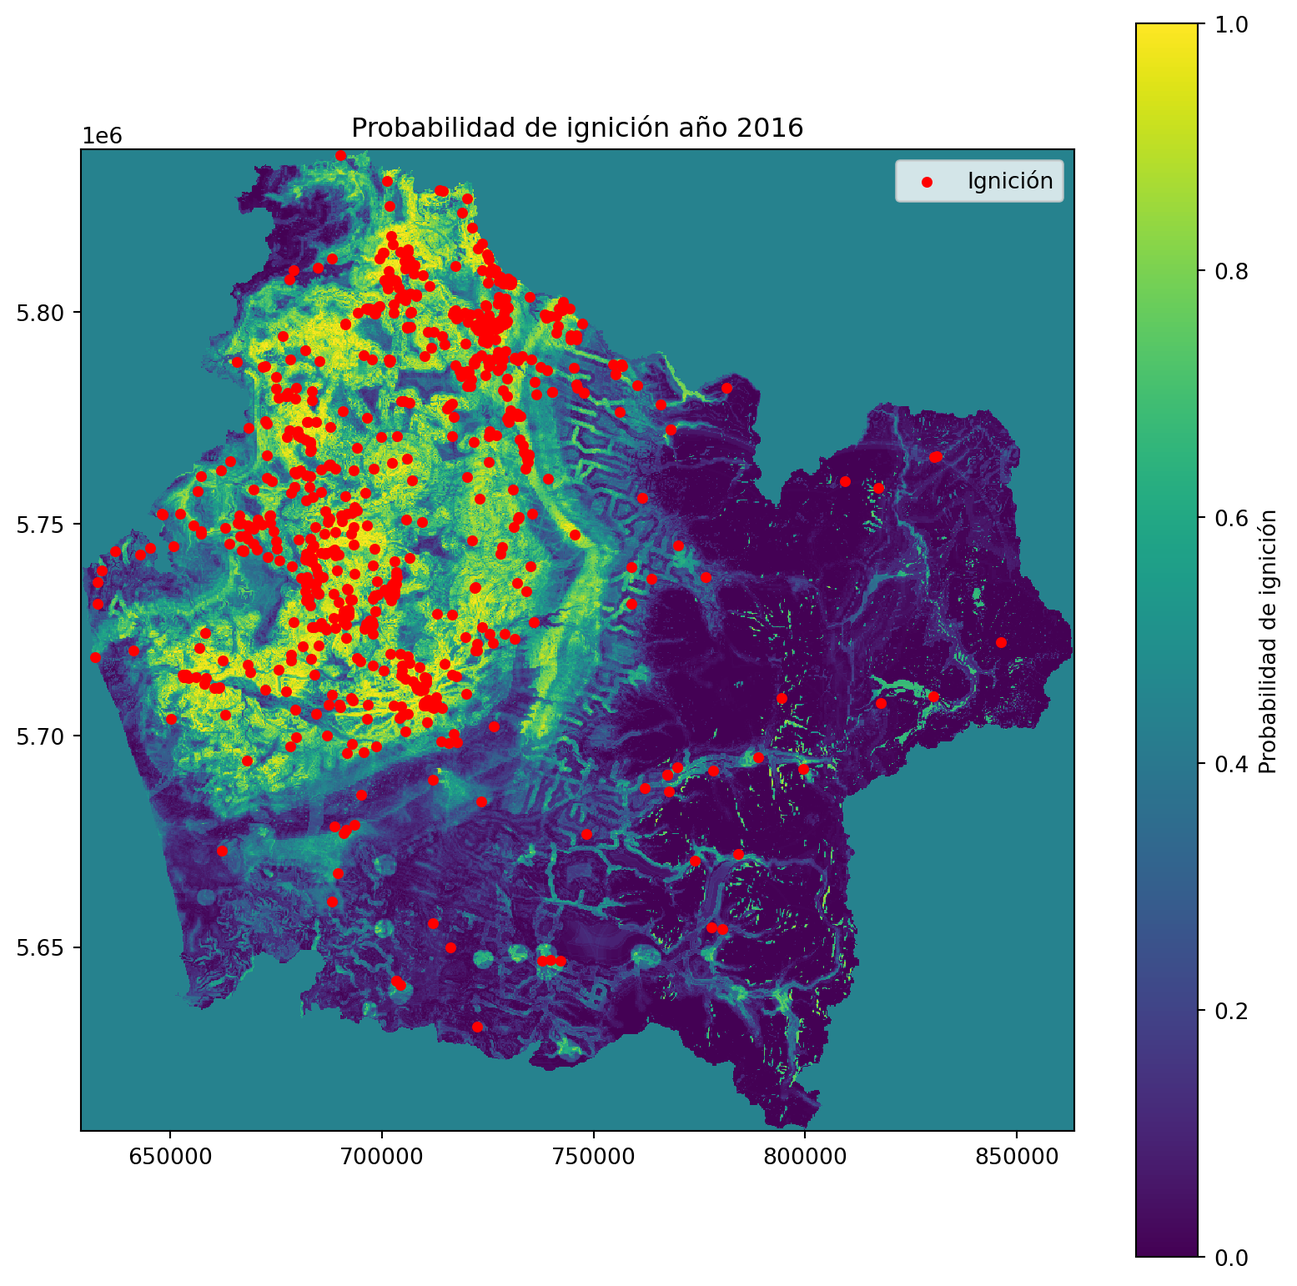
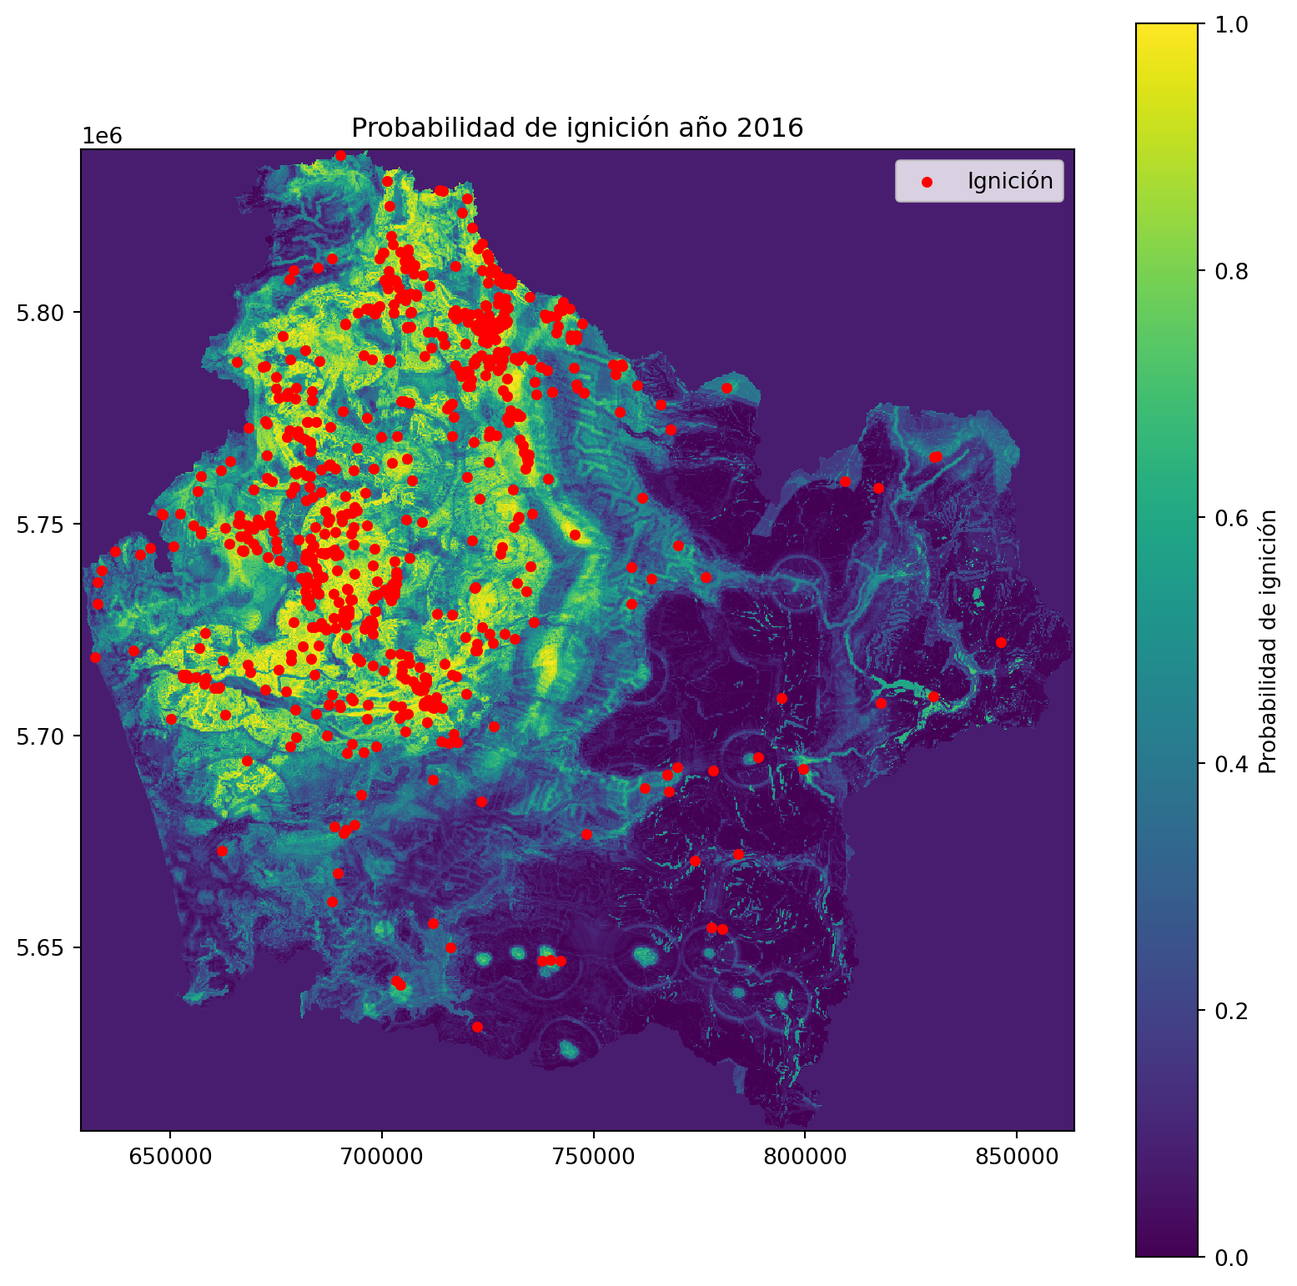
Built site for gh-pages

diff --git a/05-modelado.html b/05-modelado.html
@@ -247,7 +247,7 @@ pre > code.sourceCode > span > a:first-child::before { text-decoration: underlin
 <section id="preparación-de-datos" class="level2" data-number="5.1">
 <h2 data-number="5.1" class="anchored" data-anchor-id="preparación-de-datos"><span class="header-section-number">5.1</span> Preparación de datos</h2>
 <p>Antes de comenzar, tendremos que cargar algunas librerías extras:</p>
-<div id="8f9fbd72" class="cell" data-execution_count="1">
+<div id="0031b6da" class="cell" data-execution_count="1">
 <div class="sourceCode cell-code" id="annotated-cell-1"><pre class="sourceCode numberSource python code-annotation-code number-lines code-with-copy code-annotated"><code class="sourceCode python"><span id="annotated-cell-1-1"><a href="#annotated-cell-1-1"></a><span class="im">import</span> os</span>
 <span id="annotated-cell-1-2"><a href="#annotated-cell-1-2"></a><span class="im">import</span> pandas <span class="im">as</span> pd</span>
 <span id="annotated-cell-1-3"><a href="#annotated-cell-1-3"></a><span class="im">import</span> geopandas <span class="im">as</span> gpd</span>
@@ -282,7 +282,7 @@ pre > code.sourceCode > span > a:first-child::before { text-decoration: underlin
 </div>
 <p>Una vez cargada las librerías, llamaremos a los datos. Estos se componen de puntos para ignición/no-ignición. Ambos servirán para el entrenamiento del modelo. Además del raster multibanda que alberga a las variables predictoras.</p>
 <p>Lo primero es verificar que nuestros datos se encuentren en el mismo CRS:</p>
-<div id="6acc92f0" class="cell" data-execution_count="3">
+<div id="e30ee5e9" class="cell" data-execution_count="3">
 <div class="sourceCode cell-code" id="cb1"><pre class="sourceCode numberSource python number-lines code-with-copy"><code class="sourceCode python"><span id="cb1-1"><a href="#cb1-1"></a>coord_1 <span class="op">=</span> gpd.read_file(<span class="st">"puntos/si_ignicion_2016.shp"</span>) <span class="co"># Muestras igncion</span></span>
 <span id="cb1-2"><a href="#cb1-2"></a>coord_0 <span class="op">=</span> gpd.read_file(<span class="st">"puntos/no_ignicion_2016.shp"</span>) <span class="co"># Muestras no ignicion</span></span>
 <span id="cb1-3"><a href="#cb1-3"></a></span>
@@ -298,7 +298,7 @@ pre > code.sourceCode > span > a:first-child::before { text-decoration: underlin
 La cantidad de bandas (datos) es 5</code></pre>
 </div>
 </div>
-<div id="20d86889" class="cell" data-execution_count="4">
+<div id="5cd8bbc9" class="cell" data-execution_count="4">
 <div class="sourceCode cell-code" id="cb3"><pre class="sourceCode numberSource python number-lines code-with-copy"><code class="sourceCode python"><span id="cb3-1"><a href="#cb3-1"></a><span class="cf">if</span> coord_1.crs <span class="op">==</span> coord_0.crs <span class="op">==</span> crsRaster:</span>
 <span id="cb3-2"><a href="#cb3-2"></a>    <span class="bu">print</span>(<span class="st">"Todas las capas se encuentran en el mismo CRS"</span>)</span>
 <span id="cb3-3"><a href="#cb3-3"></a><span class="cf">else</span>:</span>
@@ -310,7 +310,7 @@ La cantidad de bandas (datos) es 5</code></pre>
 </div>
 </div>
 <p>A través de una función que vamos a construir, obtendremos los datos de las variables en el raster usando las coordenadas de los puntos. Posteriormente, ambas listas se convierten a <em>DataFrame</em> y se les asigna una etiqueta. Por último, se unen ambos <em>DataFrames</em>:</p>
-<div id="324d462c" class="cell" data-execution_count="5">
+<div id="473eb4f6" class="cell" data-execution_count="5">
 <div class="sourceCode cell-code" id="cb5"><pre class="sourceCode numberSource python number-lines code-with-copy"><code class="sourceCode python"><span id="cb5-1"><a href="#cb5-1"></a><span class="kw">def</span> ext_muestras(gdf_data, raster):</span>
 <span id="cb5-2"><a href="#cb5-2"></a>    <span class="co"># Crear lista de coordenadas</span></span>
 <span id="cb5-3"><a href="#cb5-3"></a>    coordenadas <span class="op">=</span> []</span>
@@ -411,7 +411,7 @@ La cantidad de bandas (datos) es 5</code></pre>
 </div>
 </div>
 <p>Para ingresar los datos correctamente al algoritmo de <em>Random Forest</em>, debemos separar los datos en dos arrays. Uno conteniendo únicamente los valores de los datos y otro conteniendo las etiquetas para cada observación.</p>
-<div id="aba866d1" class="cell" data-execution_count="6">
+<div id="b64c8896" class="cell" data-execution_count="6">
 <div class="sourceCode cell-code" id="cb6"><pre class="sourceCode numberSource python number-lines code-with-copy"><code class="sourceCode python"><span id="cb6-1"><a href="#cb6-1"></a>X <span class="op">=</span> df.drop(<span class="st">'etiqueta'</span>, axis<span class="op">=</span><span class="dv">1</span>).to_numpy()</span>
 <span id="cb6-2"><a href="#cb6-2"></a>y <span class="op">=</span> df[<span class="st">'etiqueta'</span>].to_numpy()</span>
 <span id="cb6-3"><a href="#cb6-3"></a></span>
@@ -436,7 +436,7 @@ Array con etiquetas
 </section>
 <section id="entrenamiento" class="level2" data-number="5.2">
 <h2 data-number="5.2" class="anchored" data-anchor-id="entrenamiento"><span class="header-section-number">5.2</span> Entrenamiento</h2>
-<div id="f22e02a8" class="cell" data-execution_count="7">
+<div id="0a9f3c7d" class="cell" data-execution_count="7">
 <div class="sourceCode cell-code" id="annotated-cell-6"><pre class="sourceCode numberSource python code-annotation-code number-lines code-with-copy code-annotated"><code class="sourceCode python"><span id="annotated-cell-6-1"><a href="#annotated-cell-6-1"></a><span class="co"># Particion de datos</span></span>
 <a class="code-annotation-anchor" data-target-cell="annotated-cell-6" data-target-annotation="1" onclick="event.preventDefault();">1</a><span id="annotated-cell-6-2" class="code-annotation-target"><a href="#annotated-cell-6-2"></a>trainX, testX, trainy, testy <span class="op">=</span> train_test_split(X,</span>
 <span id="annotated-cell-6-3"><a href="#annotated-cell-6-3"></a>                                                y,</span>
@@ -464,7 +464,7 @@ Array con etiquetas
 <section id="predicción-y-validación" class="level2" data-number="5.3">
 <h2 data-number="5.3" class="anchored" data-anchor-id="predicción-y-validación"><span class="header-section-number">5.3</span> Predicción y validación</h2>
 <p>Para predecir deberemos ocupar la función <code>.predict</code>:</p>
-<div id="98b40803" class="cell" data-execution_count="8">
+<div id="308a779b" class="cell" data-execution_count="8">
 <div class="sourceCode cell-code" id="cb8"><pre class="sourceCode numberSource python number-lines code-with-copy"><code class="sourceCode python"><span id="cb8-1"><a href="#cb8-1"></a><span class="co"># Realizar predicciones con los datos de X</span></span>
 <span id="cb8-2"><a href="#cb8-2"></a>predicciones <span class="op">=</span> modelo_RF.predict(X <span class="op">=</span> testX)</span>
 <span id="cb8-3"><a href="#cb8-3"></a></span>
@@ -473,13 +473,13 @@ Array con etiquetas
 <span id="cb8-6"><a href="#cb8-6"></a></span>
 <span id="cb8-7"><a href="#cb8-7"></a><span class="bu">print</span>(<span class="ss">f"AUC: </span><span class="sc">{</span>metrica<span class="sc">}</span><span class="ss">"</span>)</span></code><button title="Copiar al portapapeles" class="code-copy-button"><i class="bi"></i></button></pre></div>
 <div class="cell-output cell-output-stdout">
-<pre><code>AUC: 0.8381244798344467</code></pre>
+<pre><code>AUC: 0.8730780486706738</code></pre>
 </div>
 </div>
 </section>
 <section id="prediciendo-con-el-modelo" class="level2 page-columns page-full" data-number="5.4">
 <h2 data-number="5.4" class="anchored" data-anchor-id="prediciendo-con-el-modelo"><span class="header-section-number">5.4</span> Prediciendo con el modelo</h2>
-<div id="8ff5f3e3" class="cell" data-execution_count="9">
+<div id="8159bf71" class="cell" data-execution_count="9">
 <div class="sourceCode cell-code" id="annotated-cell-8"><pre class="sourceCode numberSource python code-annotation-code number-lines code-with-copy code-annotated"><code class="sourceCode python"><a class="code-annotation-anchor" data-target-cell="annotated-cell-8" data-target-annotation="1" onclick="event.preventDefault();">1</a><span id="annotated-cell-8-1" class="code-annotation-target"><a href="#annotated-cell-8-1"></a>data <span class="op">=</span> rxr.open_rasterio(<span class="st">'datos/datos_2016.tif'</span>)</span>
 <span id="annotated-cell-8-2"><a href="#annotated-cell-8-2"></a></span>
 <a class="code-annotation-anchor" data-target-cell="annotated-cell-8" data-target-annotation="2" onclick="event.preventDefault();">2</a><span id="annotated-cell-8-3" class="code-annotation-target"><a href="#annotated-cell-8-3"></a>pixeles <span class="op">=</span> data.values.transpose(<span class="dv">1</span>,<span class="dv">2</span>,<span class="dv">0</span>)</span>
@@ -524,7 +524,7 @@ Array con etiquetas
 </div>
 <p>Para observar el resultado del modelo podemos usar <em>Matplotlib</em>.</p>
 <div class="page-columns page-full">
-<div id="23c633ad" class="cell page-columns page-full" data-execution_count="10">
+<div id="38554424" class="cell page-columns page-full" data-execution_count="10">
 <div class="sourceCode cell-code" id="cb10"><pre class="sourceCode numberSource python number-lines code-with-copy"><code class="sourceCode python"><span id="cb10-1"><a href="#cb10-1"></a>fig, ax <span class="op">=</span> plt.subplots(figsize<span class="op">=</span>(<span class="dv">10</span>, <span class="dv">10</span>))</span>
 <span id="cb10-2"><a href="#cb10-2"></a></span>
 <span id="cb10-3"><a href="#cb10-3"></a>resultado.plot(</span>

diff --git a/03-imagenes.html b/03-imagenes.html
@@ -464,7 +464,7 @@ Listado&nbsp;3.1
 <h2 data-number="3.2" class="anchored" data-anchor-id="discretización-de-datos-raster"><span class="header-section-number">3.2</span> Discretización de datos Raster</h2>
 <p>Los índices entregan valores continuos en un rango determinado, no obstante, para obtener las categorías de interés, es necesario encontrar ciertos valores o umbrales que permitan esa separación. Generalmente esos umbrales vienen dados o se pueden establecer desde calibraciones en campo o con gráficos de distribución de los valores.</p>
 <p>En este caso, se mostrará una segmentación simple del NDVI anteriormente calculado. En este, valores mayores a <code>0.5</code> serán una categoría, mientras que valores menores o iguales <code>0.5</code> será otra categoría.</p>
-<div id="be6675f6" class="cell" data-execution_count="3">
+<div id="5f1ea5a7" class="cell" data-execution_count="3">
 <div class="sourceCode cell-code" id="cb2"><pre class="sourceCode numberSource python number-lines code-with-copy"><code class="sourceCode python"><span id="cb2-1"><a href="#cb2-1"></a><span class="co"># Creamos una copia de la variable original</span></span>
 <span id="cb2-2"><a href="#cb2-2"></a>ndvi_clases <span class="op">=</span> NDVI.copy()</span>
 <span id="cb2-3"><a href="#cb2-3"></a></span>
@@ -507,7 +507,7 @@ Nota
 </div>
 </div>
 <p>Una vez hecho teniendo el objeto de tipo <code>generator</code>, se transformará a un <em>GeoDataFrame</em> el cual servirá para su visualización:</p>
-<div id="246a53b8" class="cell" data-execution_count="4">
+<div id="e218dd9a" class="cell" data-execution_count="4">
 <div class="sourceCode cell-code" id="cb3"><pre class="sourceCode numberSource python number-lines code-with-copy"><code class="sourceCode python"><span id="cb3-1"><a href="#cb3-1"></a><span class="co">#Importancion de librerias</span></span>
 <span id="cb3-2"><a href="#cb3-2"></a><span class="im">import</span> shapely <span class="co"># Nos permite transformar geometrías.</span></span>
 <span id="cb3-3"><a href="#cb3-3"></a><span class="im">import</span> rasterio.features <span class="im">as</span> features <span class="co"># Contiene una función para vectorizar.</span></span>
@@ -551,7 +551,7 @@ Nota
 <h2 data-number="3.4" class="anchored" data-anchor-id="exportación-de-archivos"><span class="header-section-number">3.4</span> Exportación de archivos</h2>
 <p>Una vez creados los archivos de interés (ya sea raster o vectorial), podemos exportarlos de la siguiente manera:</p>
 <p>Para datos raster:</p>
-<div id="916fdc1c" class="cell" data-execution_count="5">
+<div id="18c86281" class="cell" data-execution_count="5">
 <div class="sourceCode cell-code" id="cb4"><pre class="sourceCode numberSource python number-lines code-with-copy"><code class="sourceCode python"><span id="cb4-1"><a href="#cb4-1"></a><span class="co"># Para raster con el NDVI calculado =========</span></span>
 <span id="cb4-2"><a href="#cb4-2"></a></span>
 <span id="cb4-3"><a href="#cb4-3"></a><span class="cf">with</span> rio.<span class="bu">open</span>(<span class="st">"ndviValdivia.tif"</span>, <span class="co"># Crea el archivo</span></span>
@@ -578,14 +578,14 @@ Nota
 <span id="cb4-24"><a href="#cb4-24"></a>    dst.write(ndvi_clases, <span class="dv">1</span>)</span></code><button title="Copiar al portapapeles" class="code-copy-button"><i class="bi"></i></button></pre></div>
 </div>
 <p>Para datos vectoriales:</p>
-<div id="64b900e0" class="cell" data-execution_count="6">
+<div id="04e47bf1" class="cell" data-execution_count="6">
 <div class="sourceCode cell-code" id="cb5"><pre class="sourceCode numberSource python number-lines code-with-copy"><code class="sourceCode python"><span id="cb5-1"><a href="#cb5-1"></a>lista_geo.to_file(<span class="st">"ndvi_vectrorial.shp"</span>)</span></code><button title="Copiar al portapapeles" class="code-copy-button"><i class="bi"></i></button></pre></div>
 </div>
 </section>
 <section id="ejercicios" class="level2 unnumbered">
 <h2 class="unnumbered anchored" data-anchor-id="ejercicios">Ejercicios</h2>
 <ol type="1">
-<li><p>Descargue el siguiente <a href="https://figshare.com/ndownloader/files/50335344">set de datos</a>. Ests son dos imágenes <em>Sentinel</em> de Viña del Mar antes y después de los incendios ocurridos en Febrero de este año. Las bandas entregadas son: B1, B2, B3, B4, B5, B6, B7, B8, B8a, B9, B11, B12.</p></li>
+<li><p>Descargue el siguiente <a href="https://figshare.com/ndownloader/files/50344533">set de datos</a>. Ests son dos imágenes de Santa Cruz antes y después de los incendios ocurridos en el año 2017. Las bandas entregadas son: B1, B2, B3, B4, B5, B6, B7, B8A, B11, B12.</p></li>
 <li><p>A través de <em>Rasterio</em> y <em>NumPy</em> calcule <em>NDVI</em> y <em>BAI</em> para la imagen post-incendio.</p></li>
 <li><p>Calcule el <em>NBR</em> y los derivados de este índice para ambas imágenes.</p></li>
 <li><p>A través de la <a href="#tbl-dnbr-severity" class="quarto-xref">Tabla&nbsp;<span>3.1</span></a>, discretice el raster de <em>dNBR</em> y exportelo como un archivo <code>.tif</code>.</p></li>

diff --git a/04-analisisTemporal.html b/04-analisisTemporal.html
@@ -245,7 +245,7 @@ pre > code.sourceCode > span > a:first-child::before { text-decoration: underlin
 <section id="dentro-de-python" class="level2 page-columns page-full" data-number="4.2">
 <h2 data-number="4.2" class="anchored" data-anchor-id="dentro-de-python"><span class="header-section-number">4.2</span> Dentro de <em>Python</em></h2>
 <div class="page-columns page-full">
-<div id="338bf27b" class="cell page-columns page-full" data-execution_count="2">
+<div id="24bde2c4" class="cell page-columns page-full" data-execution_count="2">
 <details class="code-fold">
 <summary>Código</summary>
 <div class="sourceCode cell-code" id="cb1"><pre class="sourceCode numberSource python number-lines code-with-copy"><code class="sourceCode python"><span id="cb1-1"><a href="#cb1-1"></a><span class="co"># Importacion de librerias</span></span>
@@ -294,7 +294,7 @@ pre > code.sourceCode > span > a:first-child::before { text-decoration: underlin
 </div>
 </div>
 <p>Note que los sitios de interés son elementos vectoriales de tipo punto, por lo que, con ellos no es posible obtener los estadígrafos (ya que solo contienen un valor). Para arreglar esto, crearemos un área buffer de 250 metros.</p>
-<div id="78887766" class="cell" data-execution_count="3">
+<div id="12d97db6" class="cell" data-execution_count="3">
 <div class="sourceCode cell-code" id="cb2"><pre class="sourceCode numberSource python number-lines code-with-copy"><code class="sourceCode python"><span id="cb2-1"><a href="#cb2-1"></a><span class="co"># Copiamos los puntos para crear las areas buffer</span></span>
 <span id="cb2-2"><a href="#cb2-2"></a>puntosBuffer <span class="op">=</span> puntosAOI.copy()</span>
 <span id="cb2-3"><a href="#cb2-3"></a></span>
@@ -319,7 +319,7 @@ Nota
 </div>
 <p>Así se ven las zonas buffer creadas a partir de los puntos</p>
 <div class="page-columns page-full">
-<div id="8133b9b6" class="cell page-columns page-full" data-execution_count="4">
+<div id="a528d00f" class="cell page-columns page-full" data-execution_count="4">
 <details class="code-fold">
 <summary>Código</summary>
 <div class="sourceCode cell-code" id="cb3"><pre class="sourceCode numberSource python number-lines code-with-copy"><code class="sourceCode python"><span id="cb3-1"><a href="#cb3-1"></a>f, ax <span class="op">=</span> plt.subplots(figsize <span class="op">=</span> (<span class="dv">10</span>, <span class="dv">8</span>))</span>
@@ -347,7 +347,7 @@ Nota
 </div>
 </div>
 <p>Una vez creado el buffer, se extraen los valores desde el raster y se calcula los estadísticos de interes.</p>
-<div id="a121205d" class="cell" data-execution_count="5">
+<div id="8697ef8a" class="cell" data-execution_count="5">
 <div class="sourceCode cell-code" id="cb4"><pre class="sourceCode numberSource python number-lines code-with-copy"><code class="sourceCode python"><span id="cb4-1"><a href="#cb4-1"></a><span class="co"># Lista vacia</span></span>
 <span id="cb4-2"><a href="#cb4-2"></a>estadisticas <span class="op">=</span> []</span>
 <span id="cb4-3"><a href="#cb4-3"></a></span>
@@ -490,7 +490,7 @@ Nota
 </div>
 <p>Finalmente podemos visualizar nuestro resultado.</p>
 <div class="page-columns page-full">
-<div id="9bf52077" class="cell page-columns page-full" data-execution_count="6">
+<div id="74174ec3" class="cell page-columns page-full" data-execution_count="6">
 <details class="code-fold">
 <summary>Código</summary>
 <div class="sourceCode cell-code" id="cb5"><pre class="sourceCode numberSource python number-lines code-with-copy"><code class="sourceCode python"><span id="cb5-1"><a href="#cb5-1"></a>fig, ax <span class="op">=</span> plt.subplots(figsize<span class="op">=</span>(<span class="dv">10</span>, <span class="dv">8</span>))</span>
@@ -527,7 +527,7 @@ Nota
 </div>
 </div>
 </div>
-<div id="c8bad025" class="cell" data-execution_count="7">
+<div id="3c445a57" class="cell" data-execution_count="7">
 <details class="code-fold">
 <summary>Código</summary>
 <div class="sourceCode cell-code" id="cb6"><pre class="sourceCode numberSource python number-lines code-with-copy"><code class="sourceCode python"><span id="cb6-1"><a href="#cb6-1"></a>fig, ax <span class="op">=</span> plt.subplots()</span>

diff --git a/02-geomatica.html b/02-geomatica.html
@@ -275,7 +275,7 @@ Figura&nbsp;2.1: Composición <em>RGB</em>
 <section id="monobanda" class="level3 unnumbered">
 <h3 class="unnumbered anchored" data-anchor-id="monobanda">Monobanda</h3>
 <p>Son aquellas que solo almacenan una variable o <em>layer</em>. Es común encontrar este tipo de imágenes para almacenar y representar datos de tipo continuo, como la temperatura superficial o la reflectancia. No obstante, se usan también para representar variables de tipo discretas como las categorías de un sistema de clasificación.</p>
-<div id="fcfb18e7" class="cell" data-execution_count="1">
+<div id="f34d4bc2" class="cell" data-execution_count="1">
 <div class="cell-output cell-output-display">
 <div class="quarto-figure quarto-figure-center">
 <figure class="figure">
@@ -298,7 +298,7 @@ Figura&nbsp;2.1: Composición <em>RGB</em>
 <div>
 
 </div>
-<div id="19e8b662" class="cell quarto-layout-panel" data-layout-nrow="2" data-execution_count="2">
+<div id="3b72dd9d" class="cell quarto-layout-panel" data-layout-nrow="2" data-execution_count="2">
 <div class="quarto-layout-row">
 <div class="quarto-layout-cell" style="flex-basis: 100.0%;justify-content: flex-start;">
 <div class="quarto-figure quarto-figure-center">
@@ -372,7 +372,7 @@ Figura&nbsp;2.4: Bandas de <em>Sentinel</em>.
 <h2 data-number="2.7" class="anchored" data-anchor-id="dentro-de-python"><span class="header-section-number">2.7</span> Dentro de <em>Python</em></h2>
 <p>En <em>Python</em> las librerías principales para poder trabajar con datos raster son <code>rasterio</code> y <code>earthpy</code>. <code>rasterio</code> es una librería de <em>Python</em> diseñada para leer y escribir datos raster geoespaciales, mientras que <code>earthpy</code> facilita el manejo de multiples tipos de datos, lidiando con su descarga, descompresión y visualización.</p>
 <p>Por ejemplo, se cargará e imprimirá la información de un raster de elevación (<em>DEM</em>)</p>
-<div id="3211fa21" class="cell" data-execution_count="4">
+<div id="ba0c88eb" class="cell" data-execution_count="4">
 <div class="sourceCode cell-code" id="cb1"><pre class="sourceCode numberSource python number-lines code-with-copy"><code class="sourceCode python"><span id="cb1-1"><a href="#cb1-1"></a><span class="co"># Importando los paquetes necesarios</span></span>
 <span id="cb1-2"><a href="#cb1-2"></a><span class="im">import</span> os</span>
 <span id="cb1-3"><a href="#cb1-3"></a><span class="im">import</span> rasterio <span class="im">as</span> rio</span>
@@ -392,7 +392,7 @@ La imagen tiene EPSG:32613.</code></pre>
 </div>
 </div>
 <p>A través de <code>earthpy</code> podemos visualizarlo:</p>
-<div id="87d9ba3d" class="cell" data-execution_count="5">
+<div id="5127704f" class="cell" data-execution_count="5">
 <div class="sourceCode cell-code" id="cb3"><pre class="sourceCode numberSource python number-lines code-with-copy"><code class="sourceCode python"><span id="cb3-1"><a href="#cb3-1"></a>f, ax <span class="op">=</span> plt.subplots()</span>
 <span id="cb3-2"><a href="#cb3-2"></a></span>
 <span id="cb3-3"><a href="#cb3-3"></a>ep.plot_bands(DEM,</span>

diff --git a/01-python-librerias.html b/01-python-librerias.html
@@ -543,7 +543,7 @@ Figura&nbsp;1.13: Perfilador (<em>Profiler</em>) dentro de <em>Spyder</em>
 <section id="ejemplo" class="level3 unnumbered">
 <h3 class="unnumbered anchored" data-anchor-id="ejemplo">Ejemplo</h3>
 <p>Una vez explicado los pasos a seguir, se tiene que implementar en código. Este tendrá la siguiente forma:</p>
-<div id="70f4517c" class="cell" data-execution_count="1">
+<div id="fc35c345" class="cell" data-execution_count="1">
 <div class="sourceCode cell-code" id="annotated-cell-1"><pre class="sourceCode numberSource python code-annotation-code number-lines code-with-copy code-annotated"><code class="sourceCode python"><a class="code-annotation-anchor" data-target-cell="annotated-cell-1" data-target-annotation="1" onclick="event.preventDefault();">1</a><span id="annotated-cell-1-1" class="code-annotation-target"><a href="#annotated-cell-1-1"></a><span class="im">import</span> os</span>
 <span id="annotated-cell-1-2"><a href="#annotated-cell-1-2"></a><span class="im">import</span> geopandas <span class="im">as</span> gpd</span>
 <span id="annotated-cell-1-3"><a href="#annotated-cell-1-3"></a><span class="im">import</span> matplotlib.pyplot <span class="im">as</span> plt</span>
@@ -582,7 +582,7 @@ Figura&nbsp;1.13: Perfilador (<em>Profiler</em>) dentro de <em>Spyder</em>
 </div>
 </div>
 <p>Si todo va bien, el resultado del script sería la figura mostrada abajo:</p>
-<div id="91e88cab" class="cell" data-execution_count="2">
+<div id="5cb7fd35" class="cell" data-execution_count="2">
 <div class="cell-output cell-output-display">
 <div class="quarto-figure quarto-figure-center">
 <figure class="figure">
